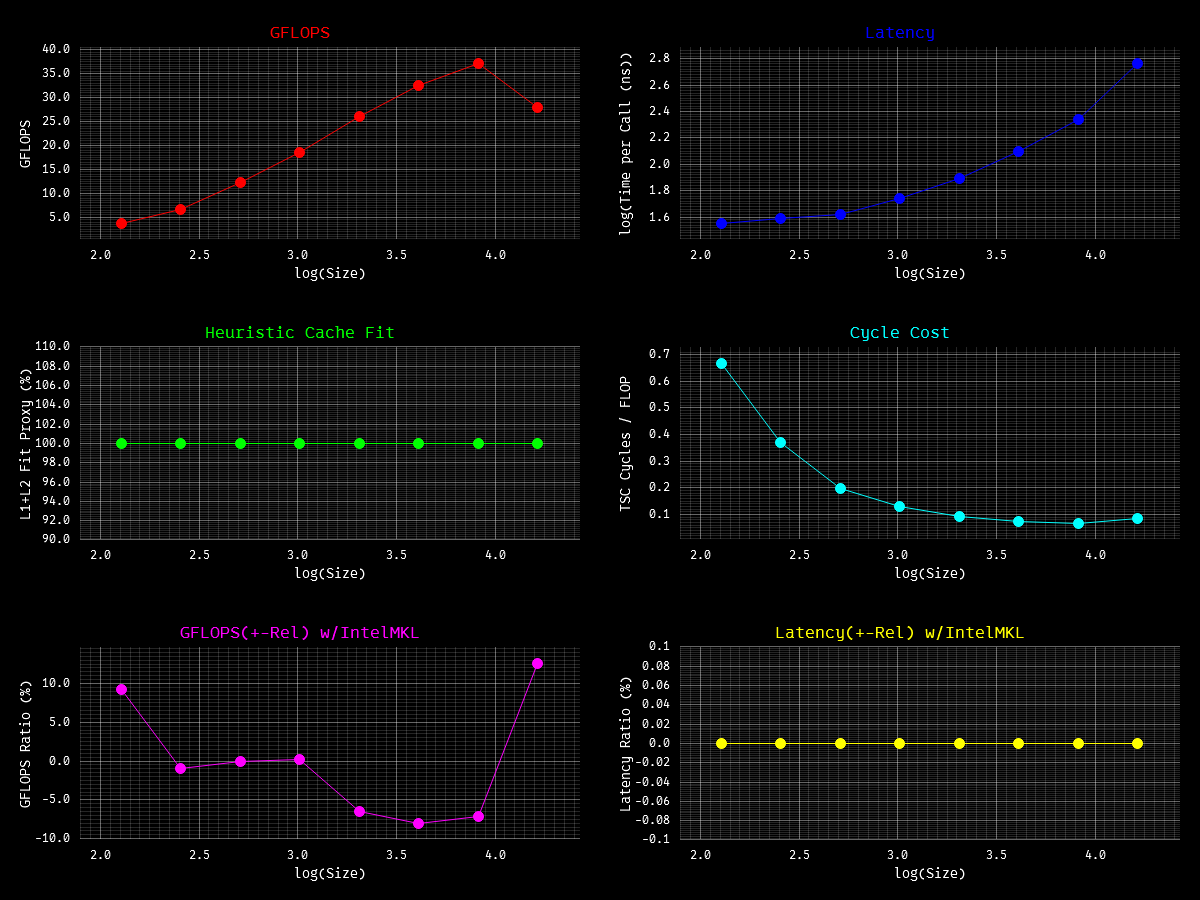
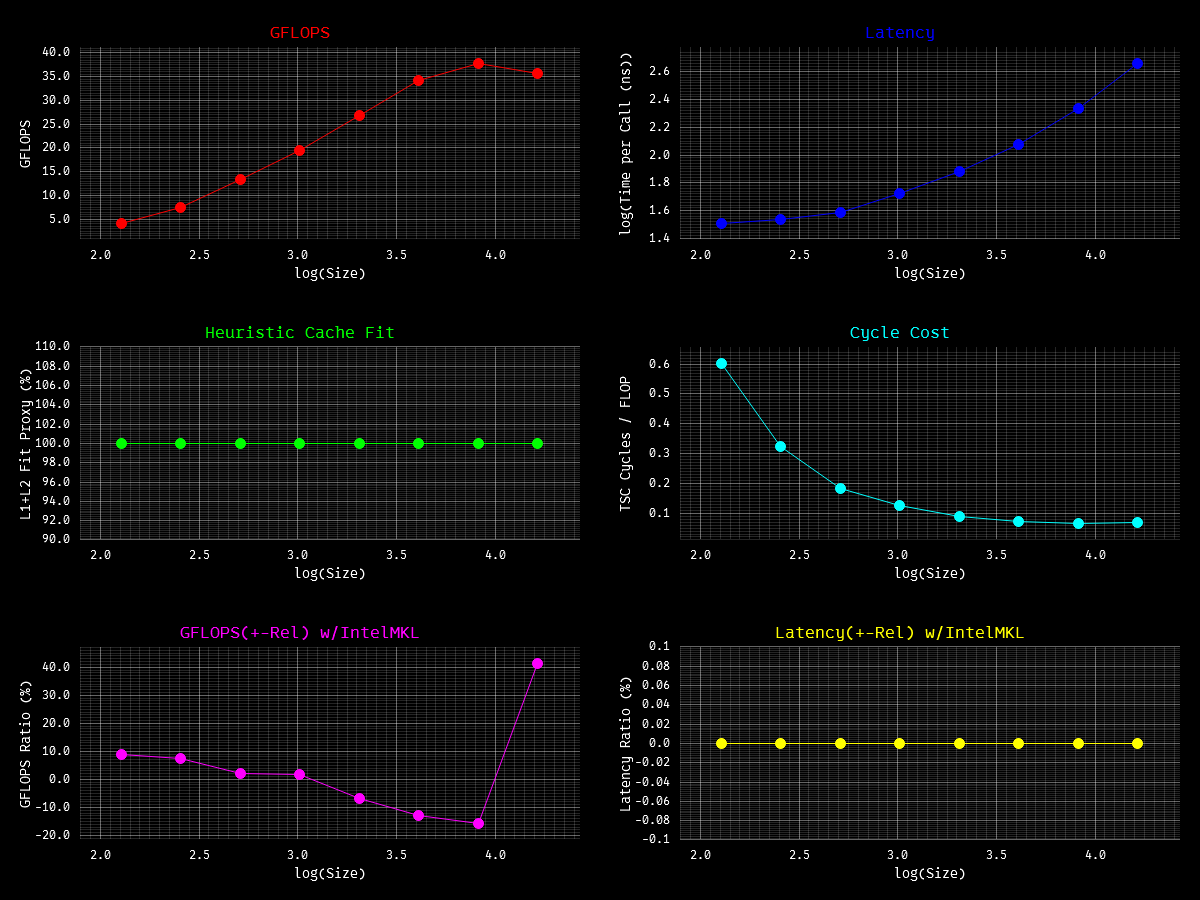
chore; update bench & impl par in mat_transpose

diff --git a/src/utils.rs b/src/utils.rs
@@ -1,5 +1,7 @@
 //! Utility functions for random noise generation and matrix helper operations
 
+use crate::GLOBAL_THREAD_POOL;
+use rayon::prelude::*;
 use std::arch::x86_64::{
     __cpuid_count, __m256i, _mm_cvtsi128_si64, _mm_unpackhi_epi64, _mm_xor_si128, _mm256_add_epi64,
     _mm256_castsi256_si128, _mm256_cvtepi32_ps, _mm256_extract_epi64, _mm256_extracti128_si256,
@@ -430,8 +432,8 @@ fn test_simd_reduce() {
     }
 }
 
+#[inline]
 /// Transposes a matrix `src` of dimensions `rows x cols` into `dest` of dimensions `cols x rows` using a blocked approach for cache efficiency
-#[inline(always)]
 pub fn mat_transpose(src: &[f32], dst: &mut [f32], rows: usize, cols: usize) {
     assert_eq!(src.len(), rows * cols);
     assert_eq!(dst.len(), rows * cols);
@@ -440,14 +442,41 @@ pub fn mat_transpose(src: &[f32], dst: &mut [f32], rows: usize, cols: usize) {
         return;
     }
 
+    // too small, scheduling overhead would dominate
+    if GLOBAL_THREAD_POOL.current_num_threads() == 1 || rows * cols < (16 << 12) {
+        transpose_range(src, dst, rows, cols, 0, rows);
+        return;
+    }
+
+    // split `rows` into bands of 64 rows (the tile granularity), one band per worker
+    let nt = GLOBAL_THREAD_POOL.current_num_threads();
+    let band = rows.div_ceil(nt).div_ceil(64) * 64;
+
+    GLOBAL_THREAD_POOL.install(|| {
+        dst.par_chunks_mut(band * cols)
+            .take(nt)
+            .enumerate()
+            .for_each(|(b, d)| {
+                let r0 = b * band;
+                if r0 >= rows {
+                    return;
+                }
+                let r1 = (r0 + band).min(rows);
+                transpose_range(src, d, rows, cols, r0, r1);
+            });
+    });
+}
+
+#[inline(always)]
+/// Transposes row band `r0..r1` of `src` (`rows x cols`) into `dst` (`cols x rows`)
+/// using a blocked approach for cache efficiency
+fn transpose_range(src: &[f32], dst: &mut [f32], rows: usize, cols: usize, r0: usize, r1: usize) {
     const LANE: usize = 8;
     const TILE: usize = 64;
 
-    // TODO: would transpose in parallel be faster?
-
-    for ii in (0..rows).step_by(TILE) {
+    for ii in (r0..r1).step_by(TILE) {
         for jj in (0..cols).step_by(TILE) {
-            let i_max = (ii + TILE).min(rows);
+            let i_max = (ii + TILE).min(r1);
             let j_max = (jj + TILE).min(cols);
 
             unsafe {
@@ -459,13 +488,13 @@ pub fn mat_transpose(src: &[f32], dst: &mut [f32], rows: usize, cols: usize) {
                         if i_end - i == LANE && j_end - j == LANE {
                             // 8x8 micro transpose
                             let src = src.as_ptr().add(i * cols + j);
-                            let dst = dst.as_mut_ptr().add(j * rows + i);
+                            let dst = dst.as_mut_ptr().add(j * rows + i - r0 * cols);
                             transpose_8x8_avx2(src, cols, dst, rows);
                         } else {
                             // remaining elements, do naive transpose
                             for x in i..i_end {
                                 for y in j..j_end {
-                                    *dst.get_unchecked_mut(y * rows + x) =
+                                    *dst.get_unchecked_mut(y * rows + x - r0 * cols) =
                                         *src.get_unchecked(x * cols + y);
                                 }
                             }
@@ -535,20 +564,27 @@ unsafe fn transpose_8x8_avx2(src: *const f32, src_stride: usize, dst: *mut f32, 
 
 #[test]
 fn test_mat_transpose() {
-    let rows = 1024;
-    let cols = 1536;
-    let size = rows * cols;
-
     let mut noise = Noise::rng();
-    let mut src = vec![0.0f32; size];
-    noise.fill_f32(&mut src);
-    let mut dest = vec![0.0f32; size];
 
-    mat_transpose(&src, &mut dest, rows, cols);
+    // rows/cols deliberately off the 64-tile boundary to hit the naive tail
+    // paths, and sizes above/below the parallel threshold
+    for &(rows, cols) in &[(1024, 1536), (70, 100), (2048, 4096)] {
+        let size = rows * cols;
 
-    for r in 0..rows {
-        for c in 0..cols {
-            assert_eq!(src[r * cols + c], dest[c * rows + r]);
+        let mut src = vec![0.0f32; size];
+        noise.fill_f32(&mut src);
+        let mut dest = vec![0.0f32; size];
+
+        mat_transpose(&src, &mut dest, rows, cols);
+
+        for r in 0..rows {
+            for c in 0..cols {
+                assert_eq!(
+                    src[r * cols + c].to_bits(),
+                    dest[c * rows + r].to_bits(),
+                    "rows={rows} cols={cols} src[{r},{c}] vs dst[{c},{r}]"
+                );
+            }
         }
     }
 }

diff --git a/src/lib.rs b/src/lib.rs
@@ -90,11 +90,6 @@ pub fn init_thread_pool() {
     let _ = &*GLOBAL_THREAD_POOL;
 }
 
-/// Get a reference to the global thread pool, which is initialized on first use
-pub fn get_thread_pool() -> &'static rayon::ThreadPool {
-    &*GLOBAL_THREAD_POOL
-}
-
 pub mod gpu;
 pub mod lvl1;
 pub mod lvl2;

diff --git a/README.md b/README.md
@@ -23,126 +23,126 @@ then copy the `.dll` or `.so` into the project root:
 
 | Size  | Run      | GFLOPS  | %GFLOPS   | %Latency  | WSS Cache | Cyc/Flop |
 |-------|----------|---------|-----------|-----------|-----------|----------|
-| 128   | 89941057 | 7.3291  | +29.1142% | -22.5492% | 100.00%   | 0.3301   |
-| 256   | 82070072 | 13.3753 | +4.1257%  | -3.9622%  | 100.00%   | 0.1809   |
-| 512   | 68915958 | 22.4631 | -5.6405%  | +5.9776%  | 100.00%   | 0.1077   |
-| 1024  | 52078382 | 33.9498 | -1.0246%  | +1.0352%  | 100.00%   | 0.0713   |
-| 2048  | 25760351 | 33.5863 | -33.9609% | +51.4254% | 100.00%   | 0.0720   |
-| 4096  | 14141593 | 36.8755 | -40.8994% | +69.2029% | 100.00%   | 0.0656   |
-| 8192  | 4862441  | 25.3585 | -12.0057% | +13.6437% | 100.00%   | 0.0954   |
-| 16384 | 2366736  | 24.6859 | -12.4315% | +14.1964% | 100.00%   | 0.0980   |
+| 128   | 91658461 | 7.4690  | +29.5212% | -22.7925% | 100.00%   | 0.3239   |
+| 256   | 81620492 | 13.3021 | +2.8809%  | -2.8002%  | 100.00%   | 0.1819   |
+| 512   | 67922703 | 22.1394 | +10.2031% | -9.2585%  | 100.00%   | 0.1093   |
+| 1024  | 40536294 | 26.4256 | -24.6708% | +32.7507% | 100.00%   | 0.0915   |
+| 2048  | 27701287 | 36.1169 | -24.1045% | +31.7601% | 100.00%   | 0.0670   |
+| 4096  | 14071199 | 36.6920 | -34.9935% | +53.8308% | 100.00%   | 0.0659   |
+| 8192  | 6445746  | 33.6158 | +52.8610% | -34.5811% | 100.00%   | 0.0720   |
+| 16384 | 2618834  | 27.3154 | -20.1205% | +25.1886% | 100.00%   | 0.0886   |
 
 **DOT**
 ![plot](bench/plots/dot.png)
 
 | Size  | Run      | GFLOPS   | %GFLOPS    | %Latency  | WSS Cache | Cyc/Flop |
 |-------|----------|----------|------------|-----------|-----------|----------|
-| 128   | 97172315 | 7.9183   | +15.9379%  | -13.7470% | 100.00%   | 0.3055   |
-| 256   | 95571482 | 15.5757  | +22.4039%  | -18.3033% | 100.00%   | 0.1553   |
-| 512   | 93504124 | 30.4776  | +36.4360%  | -26.7056% | 100.00%   | 0.0794   |
-| 1024  | 88822557 | 57.9033  | +84.5812%  | -45.8233% | 100.00%   | 0.0418   |
-| 2048  | 80421242 | 104.8530 | +120.6582% | -54.6810% | 100.00%   | 0.0231   |
-| 4096  | 65436982 | 170.6328 | +253.0534% | -71.6757% | 100.00%   | 0.0142   |
-| 8192  | 46110922 | 240.4772 | +761.8483% | -88.3970% | 100.00%   | 0.0101   |
-| 16384 | 28966702 | 302.1336 | +796.8964% | -88.8504% | 100.00%   | 0.0080   |
+| 128   | 99078074 | 8.0736   | +20.2621%  | -16.8483% | 100.00%   | 0.2996   |
+| 256   | 92204164 | 15.0269  | +19.0320%  | -15.9889% | 100.00%   | 0.1610   |
+| 512   | 92139513 | 30.0328  | +52.5795%  | -34.4604% | 100.00%   | 0.0806   |
+| 1024  | 84246452 | 54.9201  | +63.6550%  | -38.8959% | 100.00%   | 0.0440   |
+| 2048  | 75895010 | 98.9517  | +127.2639% | -55.9983% | 100.00%   | 0.0244   |
+| 4096  | 60634612 | 158.1105 | +228.6723% | -69.5746% | 100.00%   | 0.0153   |
+| 8192  | 12033763 | 62.7583  | +125.6844% | -55.6903% | 100.00%   | 0.0385   |
+| 16384 | 6504342  | 67.8427  | +58.6279%  | -36.9594% | 100.00%   | 0.0357   |
 
 **NRM2**
 ![plot](bench/plots/nrm2.png)
 
 | Size  | Run      | GFLOPS  | %GFLOPS   | %Latency  | WSS Cache | Cyc/Flop |
 |-------|----------|---------|-----------|-----------|-----------|----------|
-| 128   | 65838904 | 5.3650  | -10.3183% | +11.5055% | 100.00%   | 0.4509   |
-| 256   | 55689023 | 9.0759  | -12.7973% | +14.6753% | 100.00%   | 0.2666   |
-| 512   | 42895894 | 13.9819 | -6.4494%  | +6.8940%  | 100.00%   | 0.1730   |
-| 1024  | 30399118 | 19.8171 | -3.5199%  | +3.6484%  | 100.00%   | 0.1221   |
-| 2048  | 18663431 | 24.3333 | -1.6706%  | +1.6990%  | 100.00%   | 0.0994   |
-| 4096  | 11199724 | 29.2043 | +0.8402%  | -0.8332%  | 100.00%   | 0.0828   |
-| 8192  | 5796950  | 30.2322 | -3.0774%  | +3.1751%  | 100.00%   | 0.0800   |
-| 16384 | 2304543  | 24.0372 | -27.5569% | +38.0394% | 100.00%   | 0.1006   |
+| 128   | 72801247 | 5.9324  | -3.9515%  | +4.1141%  | 100.00%   | 0.4078   |
+| 256   | 59262866 | 9.6583  | -10.0900% | +11.2223% | 100.00%   | 0.2505   |
+| 512   | 45287368 | 14.7614 | -0.3945%  | +0.3960%  | 100.00%   | 0.1639   |
+| 1024  | 30735348 | 20.0363 | -1.7319%  | +1.7625%  | 100.00%   | 0.1207   |
+| 2048  | 19101317 | 24.9042 | -3.6537%  | +3.7923%  | 100.00%   | 0.0971   |
+| 4096  | 10526568 | 27.4490 | +3.5318%  | -3.4114%  | 100.00%   | 0.0881   |
+| 8192  | 5614288  | 29.2796 | -5.8829%  | +6.2506%  | 100.00%   | 0.0826   |
+| 16384 | 2860935  | 29.8406 | -8.3457%  | +9.1056%  | 100.00%   | 0.0811   |
 
 **ASUM**
 ![plot](bench/plots/asum.png)
 
 | Size  | Run      | GFLOPS  | %GFLOPS   | %Latency  | WSS Cache | Cyc/Flop |
 |-------|----------|---------|-----------|-----------|-----------|----------|
-| 128   | 88820051 | 3.6188  | +9.1883%  | -8.4151%  | 100.00%   | 0.6685   |
-| 256   | 80535955 | 6.5627  | -0.9141%  | +0.9226%  | 100.00%   | 0.3686   |
-| 512   | 74749499 | 12.1823 | -0.0164%  | +0.0164%  | 100.00%   | 0.1986   |
-| 1024  | 56811266 | 18.5176 | +0.2123%  | -0.2119%  | 100.00%   | 0.1306   |
-| 2048  | 40081582 | 26.1291 | -6.4639%  | +6.9106%  | 100.00%   | 0.0926   |
-| 4096  | 25003765 | 32.5998 | -8.1022%  | +8.8165%  | 100.00%   | 0.0742   |
-| 8192  | 14274196 | 37.2213 | -7.1366%  | +7.6850%  | 100.00%   | 0.0650   |
-| 16384 | 5373019  | 28.0213 | +12.6329% | -11.2160% | 100.00%   | 0.0863   |
+| 128   | 98358469 | 4.0075  | +8.9509%  | -8.2155%  | 100.00%   | 0.6037   |
+| 256   | 92129616 | 7.5074  | +7.4500%  | -6.9335%  | 100.00%   | 0.3222   |
+| 512   | 81425735 | 13.2703 | +2.1509%  | -2.1057%  | 100.00%   | 0.1823   |
+| 1024  | 59737687 | 19.4715 | +1.8682%  | -1.8339%  | 100.00%   | 0.1242   |
+| 2048  | 41066841 | 26.7714 | -6.6410%  | +7.1135%  | 100.00%   | 0.0904   |
+| 4096  | 26284943 | 34.2702 | -12.7077% | +14.5576% | 100.00%   | 0.0706   |
+| 8192  | 14519560 | 37.8611 | -15.8806% | +18.8787% | 100.00%   | 0.0639   |
+| 16384 | 6829852  | 35.6190 | +41.4707% | -29.3140% | 100.00%   | 0.0679   |
 
 **I_AMAX**
 ![plot](bench/plots/i_amax.png)
 
 | Size  | Run      | GFLOPS  | %GFLOPS    | %Latency   | WSS Cache | Cyc/Flop |
 |-------|----------|---------|------------|------------|-----------|----------|
-| 128   | 68842003 | 2.8049  | +108.5877% | -52.0585%  | 100.00%   | 0.8625   |
-| 256   | 55157903 | 4.4947  | +69.1388%  | -40.8769%  | 100.00%   | 0.5382   |
-| 512   | 40548789 | 6.6084  | -3.9130%   | +4.0723%   | 100.00%   | 0.3661   |
-| 1024  | 25117705 | 8.1871  | -30.0589%  | +42.9775%  | 100.00%   | 0.2955   |
-| 2048  | 14790796 | 9.6421  | -47.6016%  | +90.8455%  | 100.00%   | 0.2509   |
-| 4096  | 7769712  | 10.1301 | -61.2189%  | +157.8577% | 100.00%   | 0.2388   |
-| 8192  | 4078681  | 10.6355 | -66.2962%  | +196.7024% | 100.00%   | 0.2275   |
-| 16384 | 2088511  | 10.8920 | -61.8741%  | +162.2888% | 100.00%   | 0.2221   |
+| 128   | 68594549 | 2.7948  | +117.0764% | -53.9333%  | 100.00%   | 0.8656   |
+| 256   | 53568566 | 4.3652  | +65.1084%  | -39.4337%  | 100.00%   | 0.5542   |
+| 512   | 37629132 | 6.1326  | +28.5113%  | -22.1858%  | 100.00%   | 0.3945   |
+| 1024  | 24167649 | 7.8774  | -13.5281%  | +15.6445%  | 100.00%   | 0.3071   |
+| 2048  | 14662795 | 9.5587  | -52.0049%  | +108.3545% | 100.00%   | 0.2531   |
+| 4096  | 8169415  | 10.6513 | -54.8338%  | +121.4045% | 100.00%   | 0.2271   |
+| 8192  | 4171094  | 10.8765 | -66.4418%  | +197.9894% | 100.00%   | 0.2224   |
+| 16384 | 2149853  | 11.2119 | -54.0143%  | +117.4587% | 100.00%   | 0.2158   |
 
 **GEMV_N**
 ![plot](bench/plots/gemv_n.png)
 
-| Size  | Run     | GFLOPS  | %GFLOPS  | %Latency | WSS Cache | Cyc/Flop |
-|-------|---------|---------|----------|----------|-----------|----------|
-| 128   | 4454890 | 46.4662 | +9.9644% | -9.0615% | 100.00%   | 0.0521   |
-| 256   | 1067249 | 44.5272 | -1.5758% | +1.6010% | 100.00%   | 0.0543   |
-| 512   | 396253  | 66.1290 | +0.3655% | -0.3641% | 100.00%   | 0.0366   |
-| 1024  | 50608   | 33.7830 | -1.6332% | +1.6603% | 51.02%    | 0.0716   |
-| 2048  | 11879   | 31.7177 | +5.4792% | -5.1946% | 12.77%    | 0.0763   |
-| 4096  | 1628    | 17.3792 | -7.4071% | +7.9996% | 3.20%     | 0.1392   |
-| 8192  | 383     | 16.3561 | +2.9427% | -2.8586% | 0.80%     | 0.1479   |
-| 16384 | 91      | 15.3915 | -1.4155% | +1.4359% | 0.20%     | 0.1572   |
+| Size  | Run     | GFLOPS  | %GFLOPS   | %Latency   | WSS Cache | Cyc/Flop |
+|-------|---------|---------|-----------|------------|-----------|----------|
+| 128   | 5987075 | 62.4475 | +76.1281% | -43.2231%  | 100.00%   | 0.0387   |
+| 256   | 1530421 | 63.8515 | -5.1045%  | +5.3791%   | 100.00%   | 0.0379   |
+| 512   | 399772  | 66.7162 | -49.9022% | +99.6095%  | 100.00%   | 0.0363   |
+| 1024  | 50910   | 33.9846 | -62.8002% | +168.8189% | 51.02%    | 0.0712   |
+| 2048  | 11601   | 30.9760 | -85.4320% | +586.4371% | 12.77%    | 0.0781   |
+| 4096  | 1626    | 17.3588 | -46.5626% | +87.1349%  | 3.20%     | 0.1394   |
+| 8192  | 380     | 16.2299 | -18.6731% | +22.9606%  | 0.80%     | 0.1491   |
+| 16384 | 96      | 16.2735 | -10.5611% | +11.8082%  | 0.20%     | 0.1487   |
 
 **GEMV_T**
 ![plot](bench/plots/gemv_t.png)
 
-| Size  | Run     | GFLOPS  | %GFLOPS  | %Latency | WSS Cache | Cyc/Flop |
-|-------|---------|---------|----------|----------|-----------|----------|
-| 128   | 5979775 | 62.3713 | +5.1099% | -4.8615% | 100.00%   | 0.0388   |
-| 256   | 1720287 | 71.7730 | +0.6264% | -0.6225% | 100.00%   | 0.0337   |
-| 512   | 431959  | 72.0879 | +8.5521% | -7.8783% | 100.00%   | 0.0336   |
-| 1024  | 46185   | 30.8299 | +4.4978% | -4.3042% | 51.02%    | 0.0785   |
-| 2048  | 11971   | 31.9634 | -7.2392% | +7.8042% | 12.77%    | 0.0757   |
-| 4096  | 1686    | 18.0030 | -8.5826% | +9.3884% | 3.20%     | 0.1344   |
-| 8192  | 348     | 14.8419 | -8.7660% | +9.6083% | 0.80%     | 0.1630   |
-| 16384 | 94      | 16.0522 | +3.5400% | -3.4190% | 0.20%     | 0.1507   |
+| Size  | Run     | GFLOPS  | %GFLOPS   | %Latency   | WSS Cache | Cyc/Flop |
+|-------|---------|---------|-----------|------------|-----------|----------|
+| 128   | 4820967 | 50.2845 | +41.8845% | -29.5201%  | 100.00%   | 0.0481   |
+| 256   | 1632446 | 68.1081 | -9.1957%  | +10.1270%  | 100.00%   | 0.0355   |
+| 512   | 429969  | 71.7557 | -61.7920% | +161.7255% | 100.00%   | 0.0337   |
+| 1024  | 47543   | 31.7369 | -89.7062% | +871.4572% | 51.02%    | 0.0762   |
+| 2048  | 11534   | 30.7972 | -90.0754% | +907.5952% | 12.77%    | 0.0786   |
+| 4096  | 1762    | 18.8172 | -50.5188% | +102.0971% | 3.20%     | 0.1286   |
+| 8192  | 388     | 16.5525 | -14.7252% | +17.2679%  | 0.80%     | 0.1462   |
+| 16384 | 97      | 16.5426 | -16.7591% | +20.1333%  | 0.20%     | 0.1462   |
 
 **GEMM_N_N**
 ![plot](bench/plots/gemm_n_n.png)
 
-| Size  | Run   | GFLOPS   | %GFLOPS   | %Latency    | WSS Cache | Cyc/Flop |
-|-------|-------|----------|-----------|-------------|-----------|----------|
-| 128   | 22800 | 30.4400  | -92.8007% | +1289.0269% | 100.00%   | 0.0795   |
-| 256   | 11096 | 118.5071 | -79.5343% | +388.6222%  | 100.00%   | 0.0204   |
-| 512   | 2617  | 223.6025 | -64.0760% | +178.3655%  | 80.62%    | 0.0108   |
-| 1024  | 858   | 586.4814 | -8.1842%  | +8.9137%    | 20.16%    | 0.0041   |
-| 2048  | 138   | 754.5034 | +10.1206% | -9.1905%    | 5.04%     | 0.0032   |
-| 4096  | 20    | 836.2959 | +23.7511% | -19.1927%   | 1.26%     | 0.0029   |
-| 8192  | 3     | 870.0962 | +13.6947% | -12.0451%   | 0.31%     | 0.0028   |
-| 16384 | 1     | 881.1128 | +13.6526% | -12.0125%   | 0.08%     | 0.0027   |
+| Size  | Run   | GFLOPS   | %GFLOPS   | %Latency   | WSS Cache | Cyc/Flop |
+|-------|-------|----------|-----------|------------|-----------|----------|
+| 128   | 74423 | 99.3604  | -78.2339% | +359.4306% | 100.00%   | 0.0243   |
+| 256   | 11442 | 122.2064 | -79.7766% | +394.4757% | 100.00%   | 0.0198   |
+| 512   | 2804  | 239.5001 | -60.5302% | +153.3581% | 40.94%    | 0.0101   |
+| 1024  | 810   | 553.5398 | -11.2813% | +12.7158%  | 10.23%    | 0.0044   |
+| 2048  | 140   | 760.8676 | +12.0484% | -10.7529%  | 2.56%     | 0.0032   |
+| 4096  | 19    | 829.8244 | +22.4899% | -18.3606%  | 0.64%     | 0.0029   |
+| 8192  | 3     | 861.4991 | +17.2124% | -14.6848%  | 0.16%     | 0.0028   |
+| 16384 | 1     | 865.5017 | +37.5998% | -27.3255%  | 0.04%     | 0.0028   |
 
 **GEMM_T_N**
 ![plot](bench/plots/gemm_t_n.png)
 
-| Size  | Run   | GFLOPS   | %GFLOPS   | %Latency    | WSS Cache | Cyc/Flop |
-|-------|-------|----------|-----------|-------------|-----------|----------|
-| 128   | 19656 | 26.2422  | -92.3771% | +1211.8289% | 100.00%   | 0.0922   |
-| 256   | 6726  | 71.8284  | -85.9502% | +611.7550%  | 100.00%   | 0.0337   |
-| 512   | 2014  | 172.0473 | -60.7803% | +154.9738%  | 80.62%    | 0.0141   |
-| 1024  | 604   | 412.5559 | -20.8702% | +26.3746%   | 20.16%    | 0.0059   |
-| 2048  | 105   | 573.9938 | -2.5861%  | +2.6547%    | 5.04%     | 0.0042   |
-| 4096  | 16    | 664.8697 | +13.0921% | -11.5765%   | 1.26%     | 0.0036   |
-| 8192  | 2     | 694.2162 | +4.3992%  | -4.2138%    | 0.31%     | 0.0035   |
-| 16384 | 1     | 750.1939 | +11.2941% | -10.1480%   | 0.08%     | 0.0032   |
+| Size  | Run   | GFLOPS   | %GFLOPS   | %Latency   | WSS Cache | Cyc/Flop |
+|-------|-------|----------|-----------|------------|-----------|----------|
+| 128   | 75118 | 100.2881 | -76.1535% | +319.3488% | 100.00%   | 0.0241   |
+| 256   | 10794 | 115.2872 | -77.8248% | +350.9548% | 100.00%   | 0.0210   |
+| 512   | 1882  | 160.7749 | -65.2384% | +187.6740% | 40.94%    | 0.0150   |
+| 1024  | 598   | 408.1405 | -21.1271% | +26.7863%  | 10.23%    | 0.0059   |
+| 2048  | 105   | 570.1833 | -2.8582%  | +2.9423%   | 2.56%     | 0.0042   |
+| 4096  | 15    | 652.4927 | +12.2073% | -10.8792%  | 0.64%     | 0.0037   |
+| 8192  | 3     | 720.2229 | +11.0663% | -9.9637%   | 0.16%     | 0.0034   |
+| 16384 | 1     | 712.8514 | +6.6271%  | -6.2152%   | 0.04%     | 0.0034   |
 
 Want to improve the bench perf or fix nasty numeric edge cases? Send some PRs.
 
